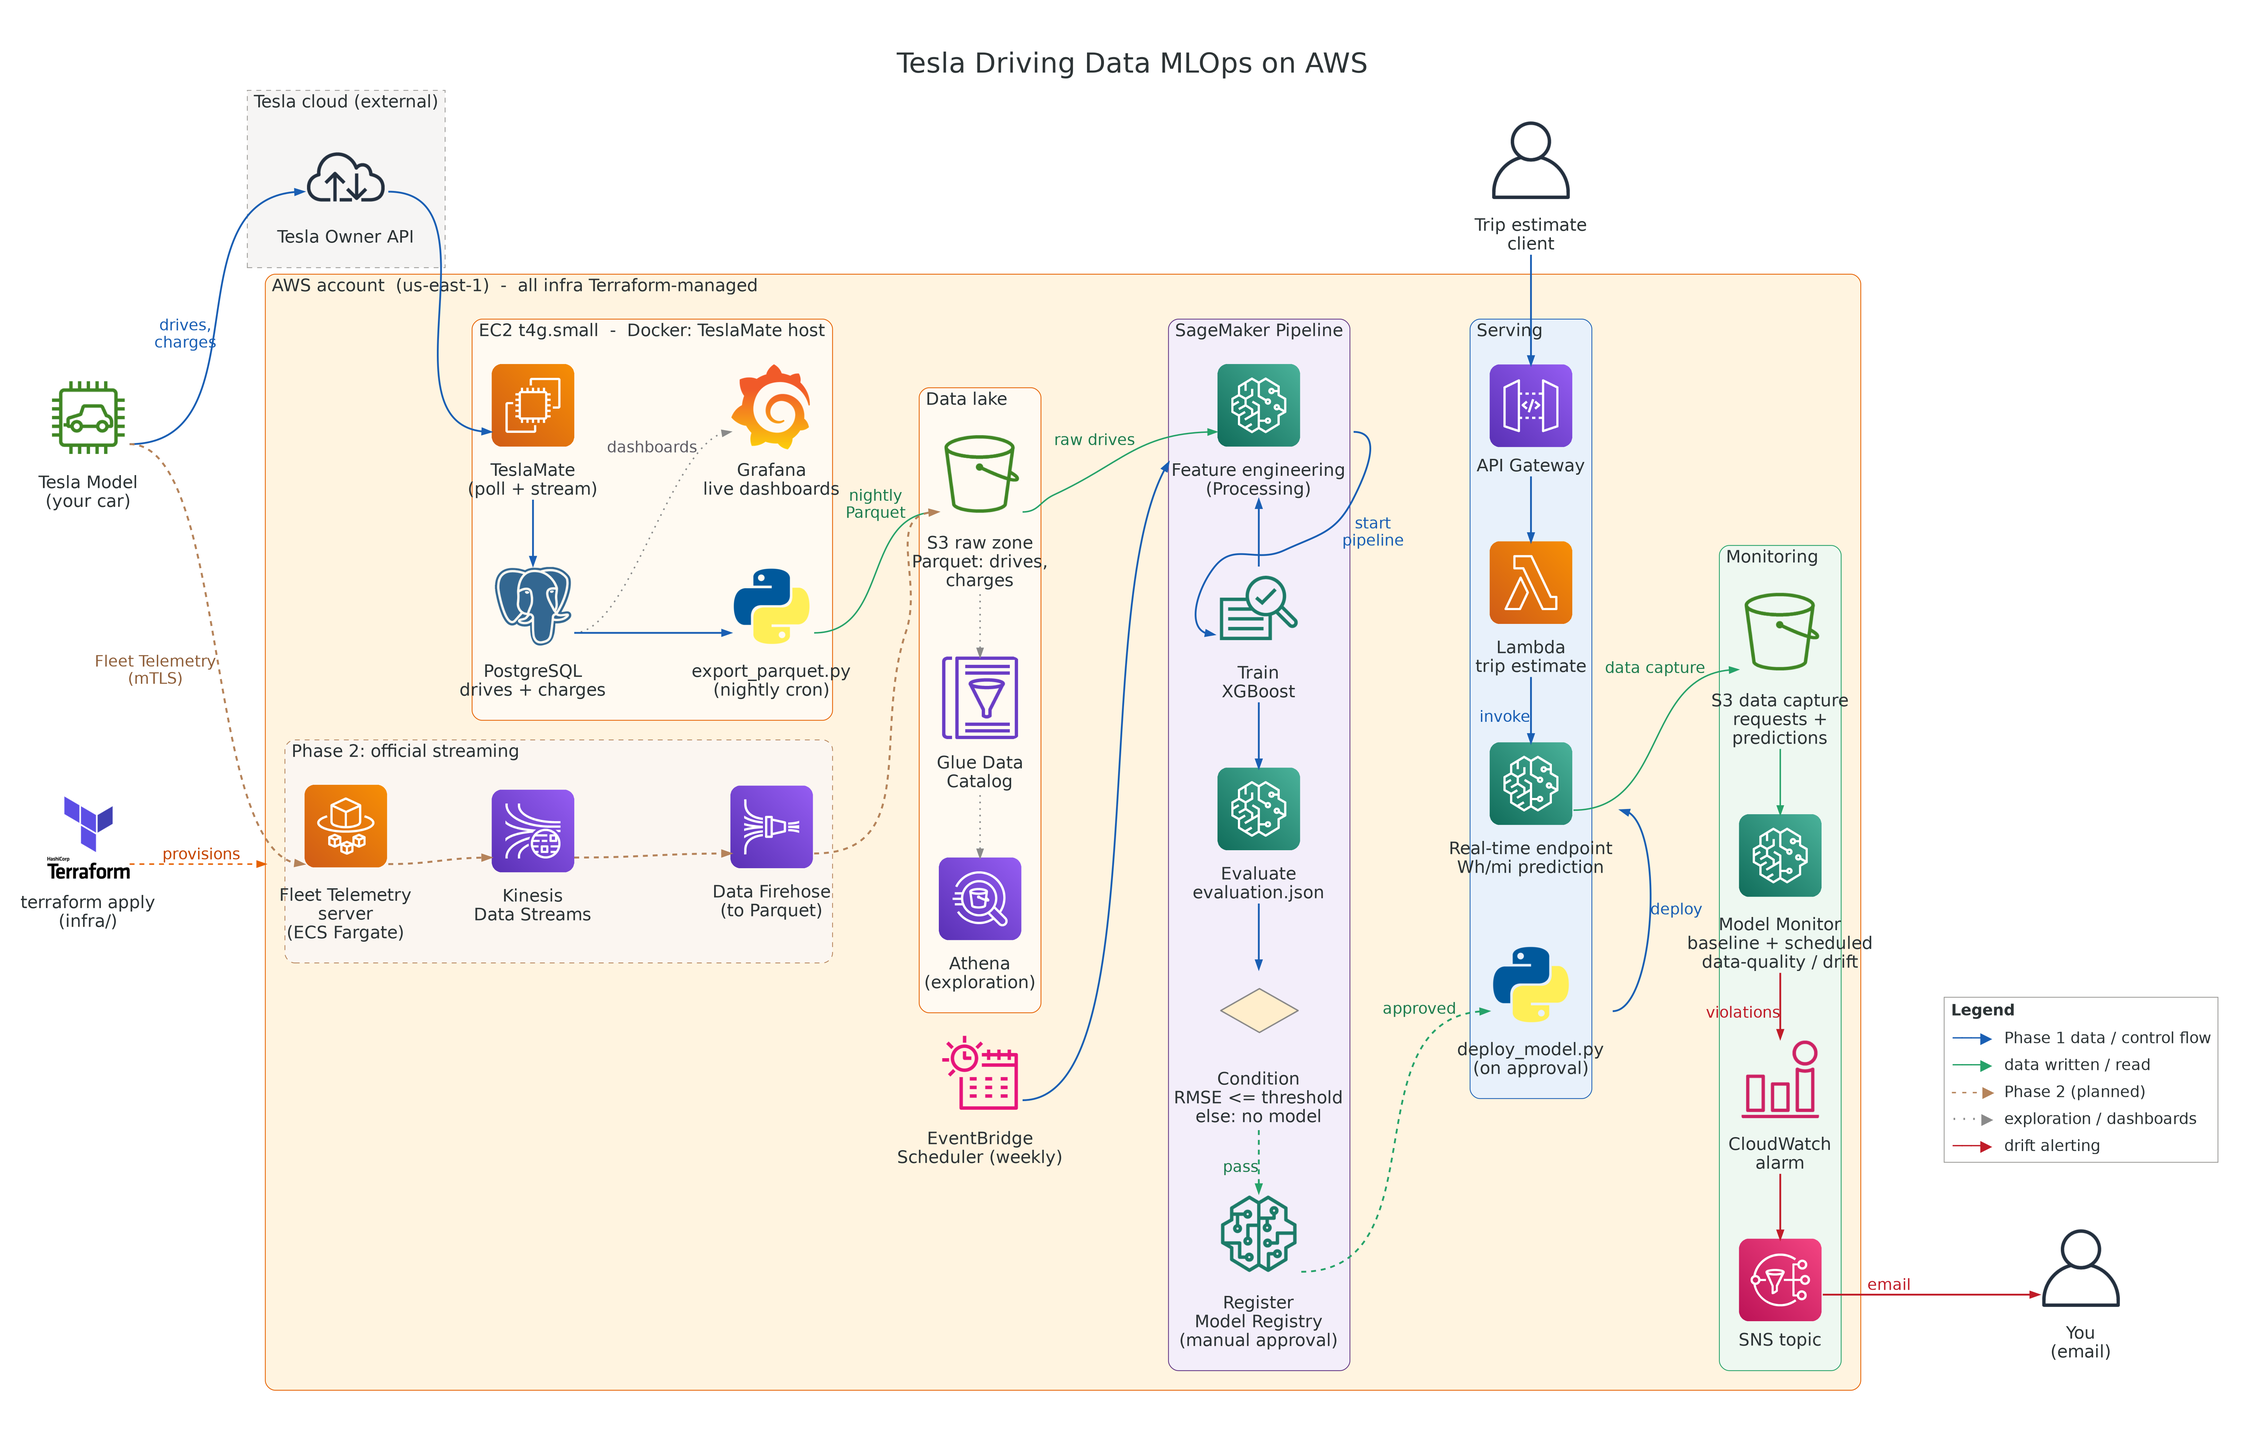
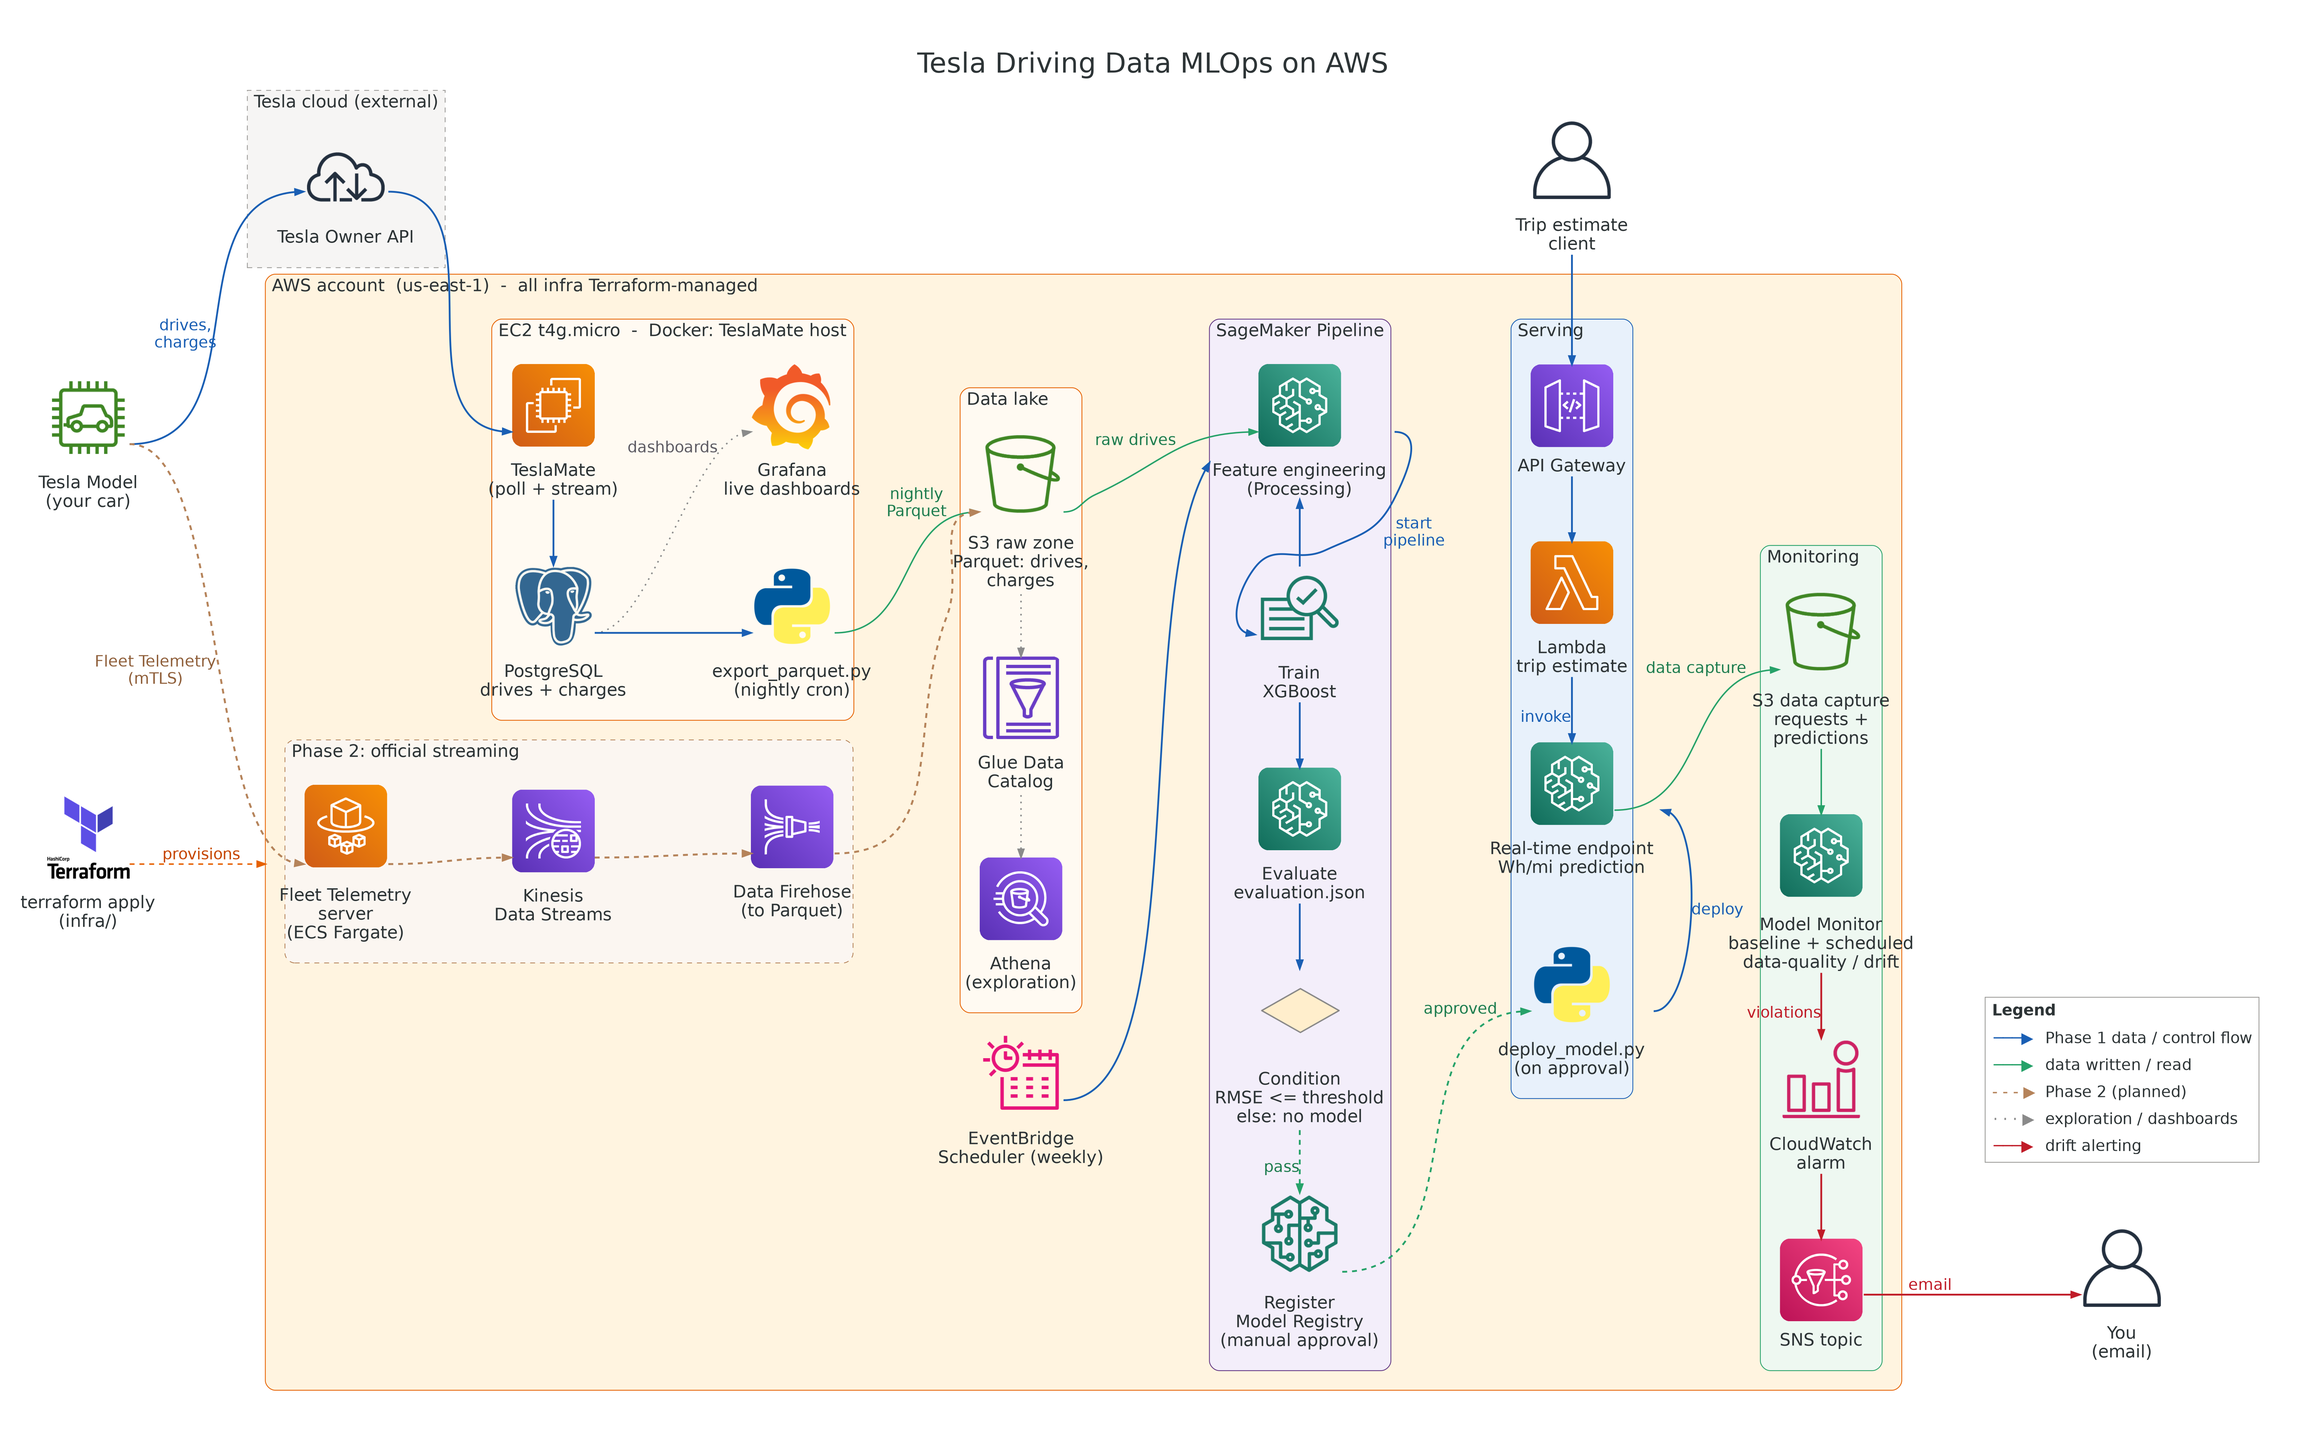
Switch to free-tier t4g.micro with memory optimization
Instance & memory changes:
- Change default from t4g.small (2 GB) to t4g.micro (1 GB, free-tier eligible)
- Add 2 GB swap file in user_data.sh (fallocate, mkswap, swapon, fstab)
- Tune PostgreSQL: shared_buffers=128MB, work_mem=4MB, max_connections=20
- Add Docker container memory limits: TeslaMate 256MB, Postgres 384MB, Grafana 256MB, Mosquitto 64MB
- Keep EBS at 30 GB (within free tier)

Cost documentation overhaul:
- Document credit-based free tier (accounts created after July 15, 2025): $100-200 credits, 6 months
- Document usage-based free tier (accounts created before July 15, 2025): 750 hrs/month, 12 months
- Show what's free: EC2 t4g.micro, 30 GB EBS, Glue, Athena, SSM
- Show what costs money during free tier: EBS snapshots (~$1.40/mo), S3 over 5 GB (~$0.12/mo)
- Total during free tier: ~$1.52/month (was $16/month with t4g.small)
- Total after free tier: ~$10.21/month (was $16.42/month)
- Update cost optimization to reflect t4g.micro as default, t4g.small as upgrade path

Troubleshooting:
- Add comprehensive OOM troubleshooting section (#7)
- Document symptoms: container crashes, slow Grafana, high memory
- Show diagnosis commands: free -h, swapon --show, docker stats, dmesg
- Provide fixes: verify swap, reduce concurrent dashboards, restart containers, upgrade to t4g.small
- Add preventive measures

Architecture:
- Update diagram label from 't4g.small' to 't4g.micro'
- Regenerate docs/architecture.png
[…]

diff --git a/docs/architecture.py b/docs/architecture.py
@@ -99,7 +99,7 @@ with Diagram(
 
     with Cluster("AWS account  (us-east-1)  -  all infra Terraform-managed", graph_attr=TF_BOX) as acct:
 
-        with Cluster("EC2 t4g.small  -  Docker: TeslaMate host", graph_attr=INGEST_BOX):
+        with Cluster("EC2 t4g.micro  -  Docker: TeslaMate host", graph_attr=INGEST_BOX):
             teslamate = EC2("TeslaMate\n(poll + stream)")
             pg = Postgresql("PostgreSQL\ndrives + charges")
             grafana = Grafana("Grafana\nlive dashboards")

diff --git a/README.md b/README.md
@@ -30,19 +30,20 @@ This starter is for ML engineers or data scientists who want to collect and anal
 
 **Not a good fit for:**
 - Non-Tesla owners (you need a Tesla vehicle and a Tesla account)
-- Quick experiments (setup takes ~10 minutes and costs ~$16/month; for one-off analysis, export TeslaMate data manually)
+- Quick experiments (setup takes ~10 minutes; for one-off analysis, export TeslaMate data manually rather than running 24/7)
 - Production fleets or commercial use (this is designed for personal use; scaling to many vehicles requires Fleet Telemetry setup)
 
 **Long-term goal**: After collecting months of driving data, train an XGBoost regression model to predict energy consumption (Wh/mi) from features like distance, speed, temperature, elevation change, and HVAC usage. Deploy the model to a SageMaker endpoint and monitor for seasonal drift with Model Monitor. The ML pipeline (phase 2+) is not yet implemented.
 
 ## Features
 
-- **Self-hosted TeslaMate** on AWS EC2 (Graviton ARM t4g.small) with Docker Compose
+- **Self-hosted TeslaMate** on AWS EC2 (Graviton ARM t4g.micro, 1 GB RAM + 2 GB swap, **free-tier eligible**)
 - **Secure-by-default infrastructure** with Terraform: no public inbound ports, SSM Session Manager access, encrypted EBS, secrets in SSM Parameter Store
+- **Memory-optimized for 1 GB RAM**: PostgreSQL tuning, container limits, swap file, Grafana caching
 - **Nightly Parquet exports** to S3, partitioned by date, idempotent and tested
 - **Automated backups** with daily PostgreSQL dumps to S3 and EBS snapshots via Data Lifecycle Manager
 - **AWS Glue Data Catalog** and Athena workgroup for SQL exploration
-- **Cost-effective**: ~$16/month on-demand (see [Cost Estimate](#cost-estimate))
+- **Cost-effective**: ~$1.52/month during free tier, ~$10/month after (see [Cost Estimate](#cost-estimate))
 - **CI/CD ready** with GitHub Actions for Terraform validation, Python linting, and automated testing
 
 ## Architecture
@@ -120,7 +121,7 @@ terraform apply
 ```
 
 Terraform creates:
-- **EC2 instance** (t4g.small ARM/Graviton) running TeslaMate Docker Compose stack
+- **EC2 instance** (t4g.micro ARM/Graviton, 1 GB RAM + 2 GB swap, free-tier eligible) running TeslaMate Docker Compose stack
 - **S3 bucket** (versioning, encryption, lifecycle policies) for Parquet exports and backups
 - **SSM Parameter Store** (SecureString) for TeslaMate encryption key, PostgreSQL password, Grafana admin password
 - **IAM role** (least-privilege) for EC2 instance with S3 and SSM access
@@ -356,51 +357,82 @@ terraform destroy  # Type 'yes' when prompted
 
 ## Cost Estimate
 
-Running this infrastructure 24/7 in **us-east-1** (October 2026 pricing):
+### AWS Free Tier Eligibility
 
-### Monthly Costs
+**This project is designed to run on AWS Free Tier.** Costs depend on your account creation date:
+
+#### Accounts Created On/After July 15, 2025 (Credit-Based Free Tier)
+
+- **Free Tier Duration**: 6 months or until credits exhausted
+- **Free Credits**: $100 sign-up + up to $100 earned = **$200 total**
+- **Eligible Instance Types**: t3.micro, t3.small, t4g.micro, t4g.small (this repo uses **t4g.micro**)
+- **EBS**: 30 GB gp3 covered (free tier includes 30 GB gp2/gp3)
+- **What's FREE**: EC2 t4g.micro (1 GB RAM), 30 GB EBS, Glue, Athena queries, SSM Session Manager
+- **What COSTS money** (not covered by free tier):
+  - **EBS Snapshots**: ~$1.40/month (7 snapshots × 30 GB × $0.05/GB-month)
+  - **S3 storage over 5 GB**: ~$0.12/month for exports/backups (~5 GB typical)
+  - **Data Transfer out**: First 100 GB/month free (TeslaMate uses <1 GB)
+
+**Total cost during free tier: ~$1.52/month** (snapshots + S3 only)
+
+**After 6 months** (when free tier ends or credits run out):
+- EC2 t4g.micro: $6.20/month
+- EBS gp3 (30 GB): $2.40/month
+- EBS Snapshots: $1.40/month
+- S3 + Transfer: $0.21/month
+- **Total: $10.21/month** ($122/year)
+
+#### Accounts Created Before July 15, 2025 (Usage-Based Free Tier)
+
+- **Free Tier Duration**: 12 months from account creation
+- **Eligible Instance Types**: t2.micro, t3.micro (this repo uses **t4g.micro**, which works with credits if available)
+- **Monthly Limit**: 750 hours/month of t2.micro or t3.micro (enough for 24/7 single instance)
+- **What's FREE**: EC2 (up to 750 hrs), 30 GB EBS gp2/gp3, Glue, Athena, SSM
+- **What COSTS money**: Same as above (EBS snapshots, S3 over 5 GB)
+
+**Total cost during free tier: ~$1.52/month**
+
+**After 12 months**:
+- Same as above: **$10.21/month**
+
+### Full On-Demand Pricing (No Free Tier)
+
+If you're outside free tier (account >12 months old for pre-2025, or >6 months / $200 exhausted for post-2025):
 
 | Service | Configuration | Monthly Cost |
 |---------|--------------|--------------|
-| **EC2 t4g.small** | 730 hours/month on-demand | **$12.41** |
+| **EC2 t4g.micro** | 730 hours/month on-demand (1 GB RAM) | **$6.20** |
 | **EBS gp3** | 30 GB storage | **$2.40** |
 | **EBS Snapshots** | 7 daily snapshots × 30 GB | **$1.40** |
-| **S3 Standard** | ~5 GB (30 days of exports + backups) | **$0.12** |
+| **S3 Standard** | ~5 GB (exports + backups) | **$0.12** |
 | **S3 Requests** | Daily writes | **<$0.01** |
-| **Data Transfer** | TeslaMate API polling (~1 GB/month) | **$0.09** |
-| **Glue Data Catalog** | 2 tables, no crawler | **Free** |
+| **Data Transfer** | TeslaMate API polling (<1 GB/month) | **$0.09** |
+| **Glue Data Catalog** | 2 tables | **Free** |
 | **Athena** | Pay-per-query (first 10 TB scanned/month free) | **~$0** |
-| **SSM Session Manager** | Free tier | **Free** |
+| **SSM Session Manager** | Always free | **Free** |
 
-**Total: ~$16.42/month** ($197/year)
+**Total: ~$10.21/month** ($122/year)
 
-### Cost Optimization
+### Cost Optimization (After Free Tier)
 
 Reduce monthly costs while maintaining continuous data collection:
 
-1. **Use a Savings Plan or Reserved Instance**: 1-year commitment reduces t4g.small EC2 cost from $12.41 to ~$7.30/month (40% savings). 3-year commitment: ~$4.80/month (60% savings).
-2. **Switch to t4g.micro** ($6.20/month, 50% cheaper): Adequate for single-vehicle TeslaMate if memory usage stays under 1 GB. Monitor with CloudWatch; if PostgreSQL or TeslaMate crashes due to OOM, upgrade back to t4g.small.
+1. **Use a Savings Plan or Reserved Instance**: 1-year commitment reduces t4g.micro from $6.20 to ~$3.65/month (40% savings). 3-year commitment: ~$2.40/month (60% savings).
+2. **Upgrade to t4g.small only if needed** ($12.41/month on-demand, $7.30 with 1-yr RI): If experiencing frequent OOM or slow Grafana performance despite swap, upgrade. Otherwise, t4g.micro with 2 GB swap handles single-vehicle TeslaMate well.
 3. **Reduce backup retention**: Change `backup_retention_days` from 30 to 7 days in `terraform.tfvars` and `terraform apply`. Reduces S3 storage by ~75% (~$0.09/month savings).
-4. **Reduce snapshot retention**: Edit the DLM policy retain_rule in `infra/ec2.tf` from 7 to 3 days, then `terraform apply`. Saves ~$0.80/month.
+4. **Reduce snapshot retention**: Edit the DLM policy `retain_rule` count in `infra/ec2.tf` from 7 to 3 days, then `terraform apply`. Saves ~$0.80/month.
 5. **Archive old exports faster**: Change `data_lifecycle_days` from 90 to 30 days to transition Parquet files to S3 IA sooner (~$0.05/month savings after 90 days).
 
 **Tradeoffs:**
 - Shorter retention: Less recovery window if you need to restore old data
-- t4g.micro: May run out of memory with heavy Grafana dashboard use or large databases (multiple vehicles, years of data)
+- t4g.micro limitations: Grafana dashboards load slower (~5-10 seconds); heavy dashboard use may cause temporary slowness (swap kicks in)
 
-### Free Tier Eligibility
+### Summary
 
-If you're within AWS Free Tier (12 months after account creation):
-- 750 hours/month of t2.micro (x86) or t3.micro (x86) are free
-- This repository uses t4g.small (ARM) by default for cost efficiency post-free-tier
-- To use free tier: change `instance_type = "t3.micro"` in `terraform.tfvars` and update `data.aws_ami.ubuntu_arm64` to use `x86_64` architecture
-
-With free tier: ~$4/month (EBS, S3, snapshots)
-
-### One-Time Costs
-
-- Terraform apply: **Free** (no charges for AWS API calls)
-- Athena queries: **~$0** (typically <1 GB scanned per query; first 10 TB/month free)
+- **During free tier**: ~$1.52/month (snapshots + S3 only)
+- **After free tier**: ~$10.21/month with t4g.micro (single vehicle, default settings)
+- **With optimizations**: ~$5-7/month (Savings Plan + shorter retention)
+- **Upgrade path**: t4g.small (~$16/month) if memory constrained
 
 ## Configuration
 
@@ -412,7 +444,7 @@ Customize in `infra/terraform.tfvars`:
 |----------|---------|-------------|
 | `aws_region` | `us-east-1` | AWS region (must match AWS CLI) |
 | `environment` | `dev` | Environment name tag |
-| `instance_type` | `t4g.small` | EC2 instance type (ARM/Graviton recommended) |
+| `instance_type` | `t4g.micro` | EC2 instance type (free-tier eligible; upgrade to t4g.small if memory constrained) |
 | `volume_size` | `30` | Root EBS volume size (GB) |
 | `backup_retention_days` | `30` | Days to retain database backups in S3 |
 | `data_lifecycle_days` | `90` | Days before moving exports to S3 IA |
@@ -506,6 +538,65 @@ TeslaMate takes ~2-3 minutes to start after instance boot. If containers are not
 - Check lifecycle policies are active: `aws s3api get-bucket-lifecycle-configuration --bucket $S3_BUCKET`
 - Review S3 storage usage: `aws s3 ls s3://$S3_BUCKET/ --recursive --human-readable --summarize`
 - Reduce backup retention: Update `backup_retention_days` in `terraform.tfvars` and `terraform apply`
+
+### 7. Out of Memory (OOM) or Slow Grafana Dashboards
+
+**Symptoms:**
+- Docker containers crashing and restarting frequently
+- Grafana dashboards taking >30 seconds to load or timing out
+- SSH session freezes or becomes unresponsive
+- CloudWatch showing high memory utilization (>90%)
+
+**Diagnosis:**
+
+```bash
+# Check memory usage
+free -h
+
+# Check swap usage (should show 2 GB swap active)
+swapon --show
+
+# Check Docker container memory stats
+docker stats --no-stream
+
+# Check for OOM kills in system logs
+dmesg | grep -i "out of memory"
+journalctl -u docker | grep -i "oom"
+```
+
+**Fixes (in order of preference):**
+
+1. **Verify swap is active** (created by user_data.sh):
+   ```bash
+   swapon --show  # Should show /swapfile 2G
+   free -h        # Should show 2G swap
+   ```
+   If swap is missing, recreate it:
+   ```bash
+   sudo fallocate -l 2G /swapfile
+   sudo chmod 600 /swapfile
+   sudo mkswap /swapfile
+   sudo swapon /swapfile
+   echo '/swapfile none swap sw 0 0' | sudo tee -a /etc/fstab
+   ```
+
+2. **Reduce concurrent Grafana dashboard loading**: Load one dashboard at a time, wait for it to finish before opening another.
+
+3. **Restart containers to clear memory**:
+   ```bash
+   cd /opt/teslamate
+   docker-compose restart
+   ```
+
+4. **Upgrade to t4g.small** (2 GB RAM, $12.41/month):
+   - Edit `infra/terraform.tfvars`: `instance_type = "t4g.small"`
+   - Run `terraform apply`
+   - Terraform will stop the instance, change the type, and restart (~5 minutes downtime)
+
+**Preventive measures:**
+- Avoid opening multiple Grafana dashboards simultaneously
+- Use Athena for heavy analytics instead of Grafana
+- Monitor memory with CloudWatch: set up alarms for >85% memory usage
 
 ## Troubleshooting
 
@@ -714,7 +805,7 @@ A: For a robust seasonal model, collect at least 3-6 months of data across diffe
 A: Fleet Telemetry setup (phase 2) is planned but not implemented. You can add it yourself by following Tesla's [Fleet Telemetry docs](https://developer.tesla.com/docs/fleet-api#fleet-telemetry). The architecture diagram shows where it fits.
 
 **Q: Why Graviton (ARM) instead of x86?**  
-A: t4g.small (ARM) costs ~30% less than t3.small (x86) for the same performance. TeslaMate publishes official ARM64 Docker images, so there's no compatibility penalty. If you prefer x86, set `instance_type = "t3.small"` and update the AMI filter to `x86_64`.
+A: t4g.micro (ARM) is free-tier eligible (for accounts created after July 15, 2025) and costs ~40% less than t3.micro (x86) after free tier. TeslaMate publishes official ARM64 Docker images, so there's no compatibility penalty. If you prefer x86, set `instance_type = "t3.micro"` and update the AMI filter in `infra/data.tf` to `x86_64`.
 
 **Q: Does this work with Tesla's new API changes?**  
 A: As of October 2026, TeslaMate supports Tesla's latest OAuth flow and fleet API. If Tesla deprecates older APIs, the TeslaMate community typically updates within days. Update your Docker images regularly: `docker-compose pull && docker-compose up -d`.
